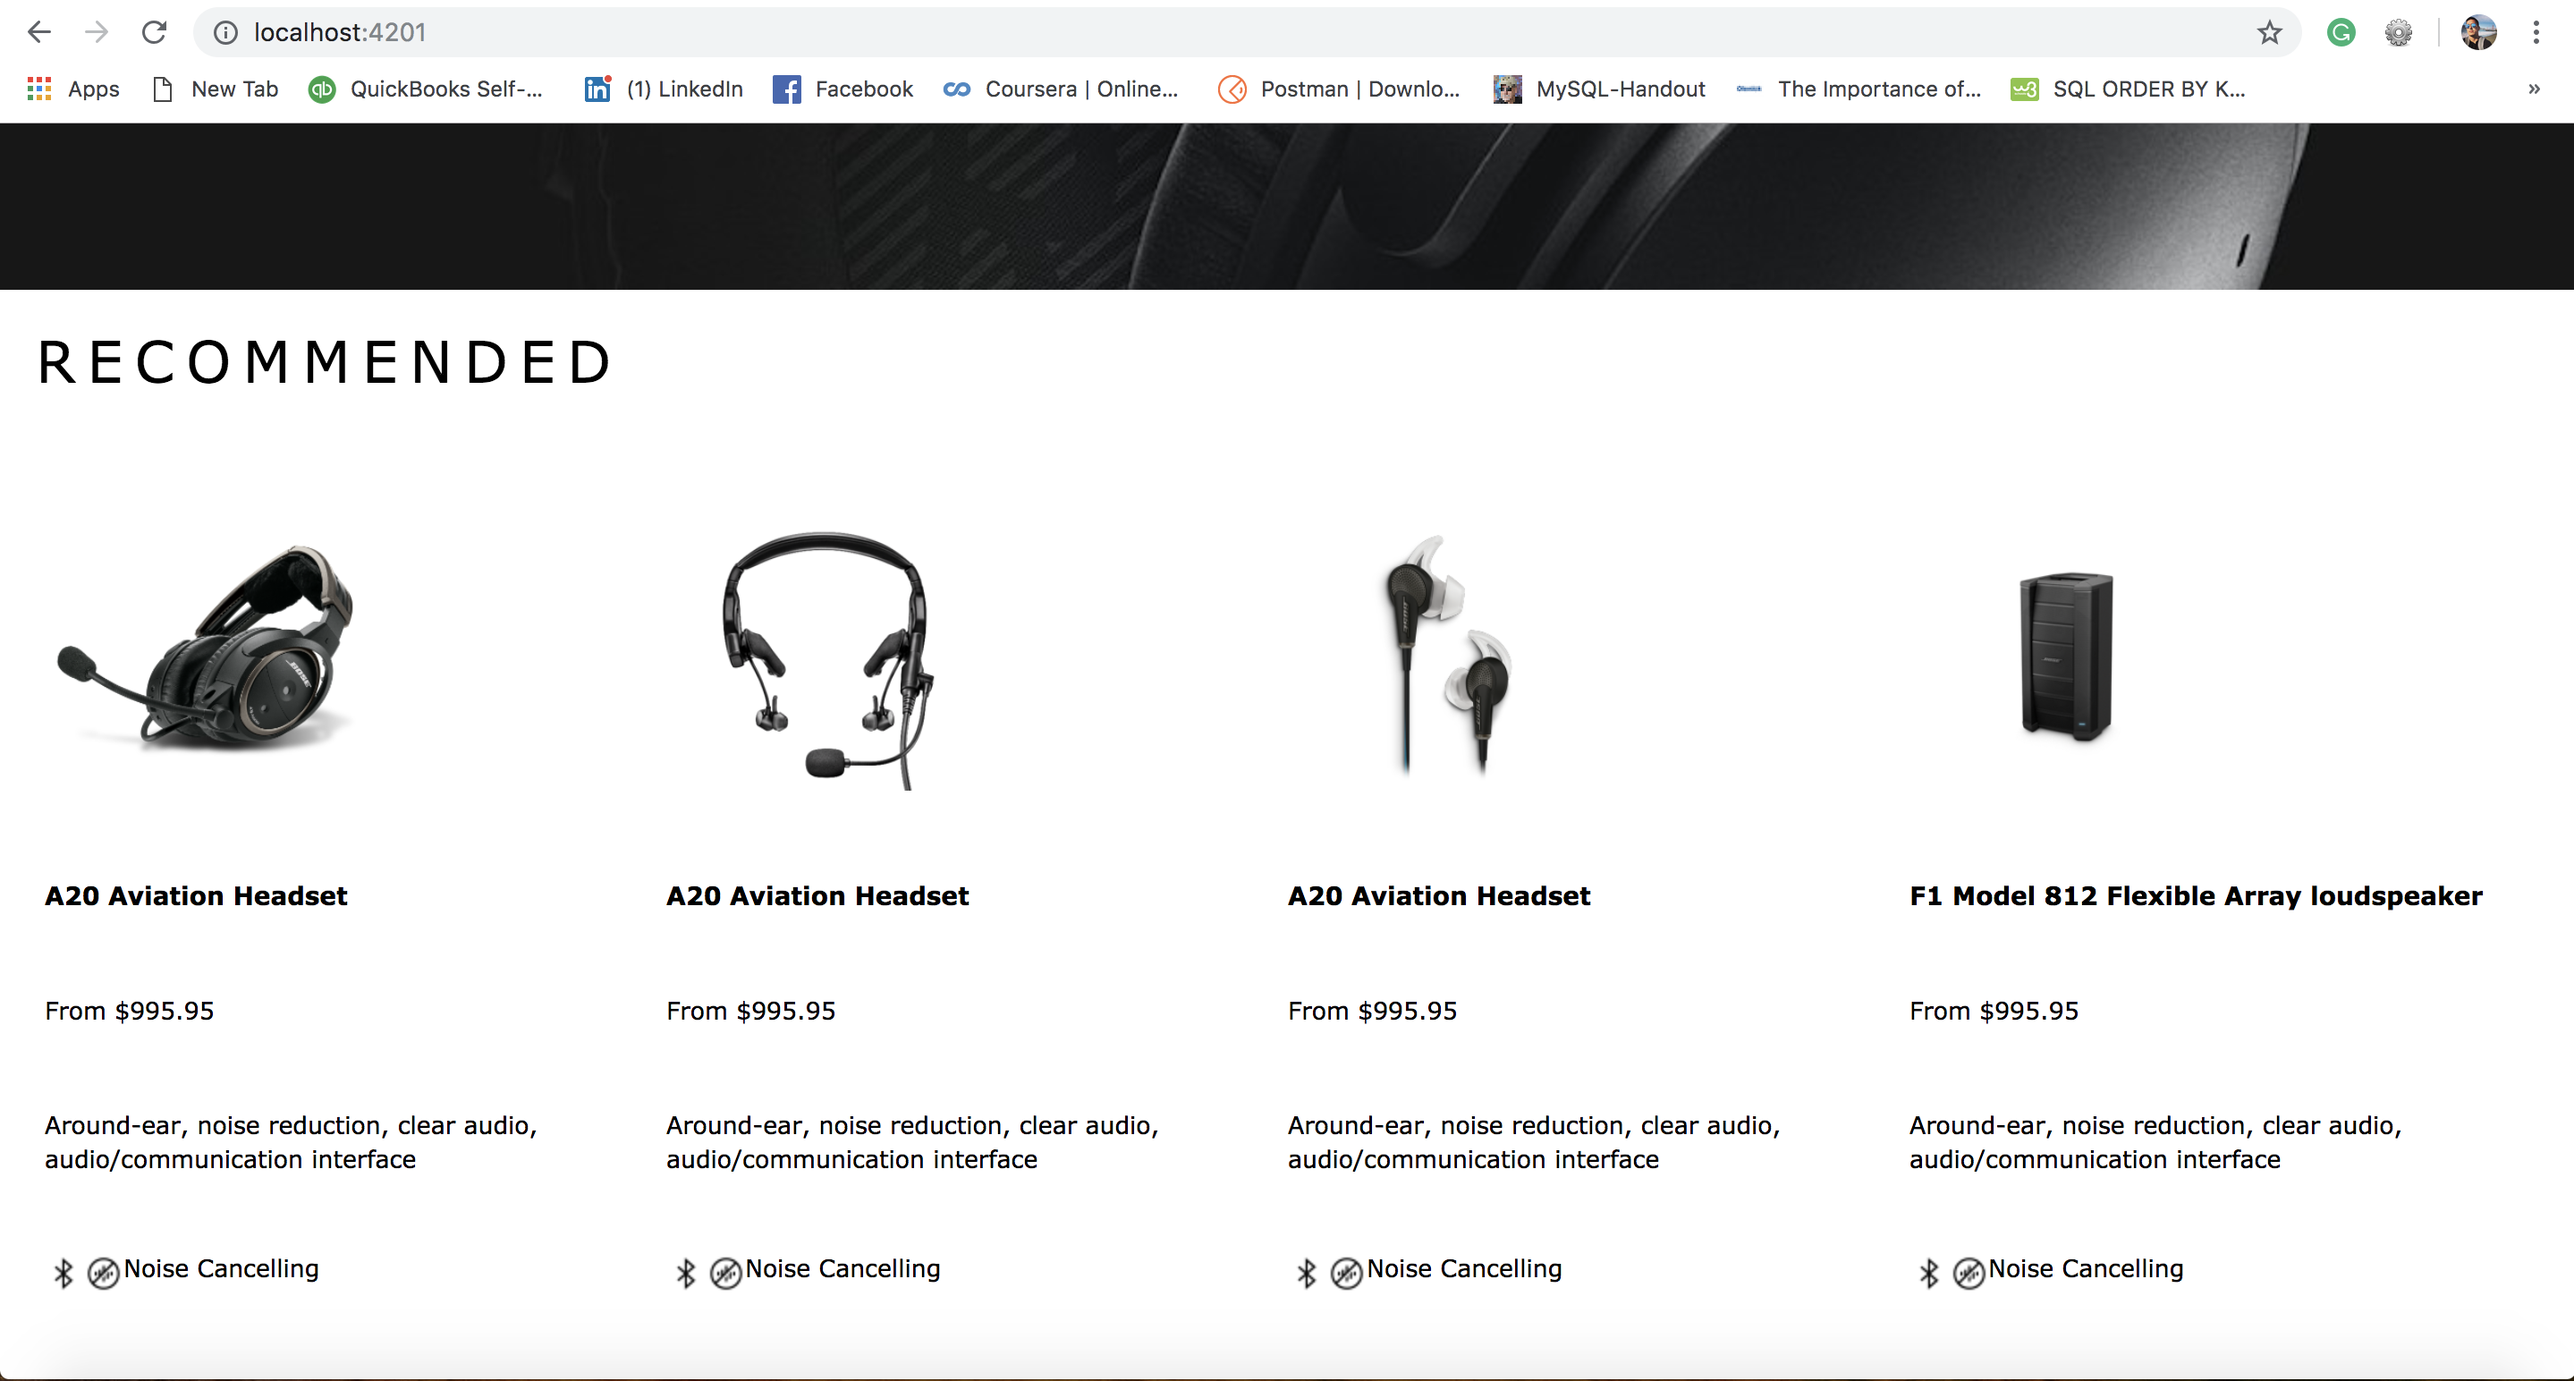
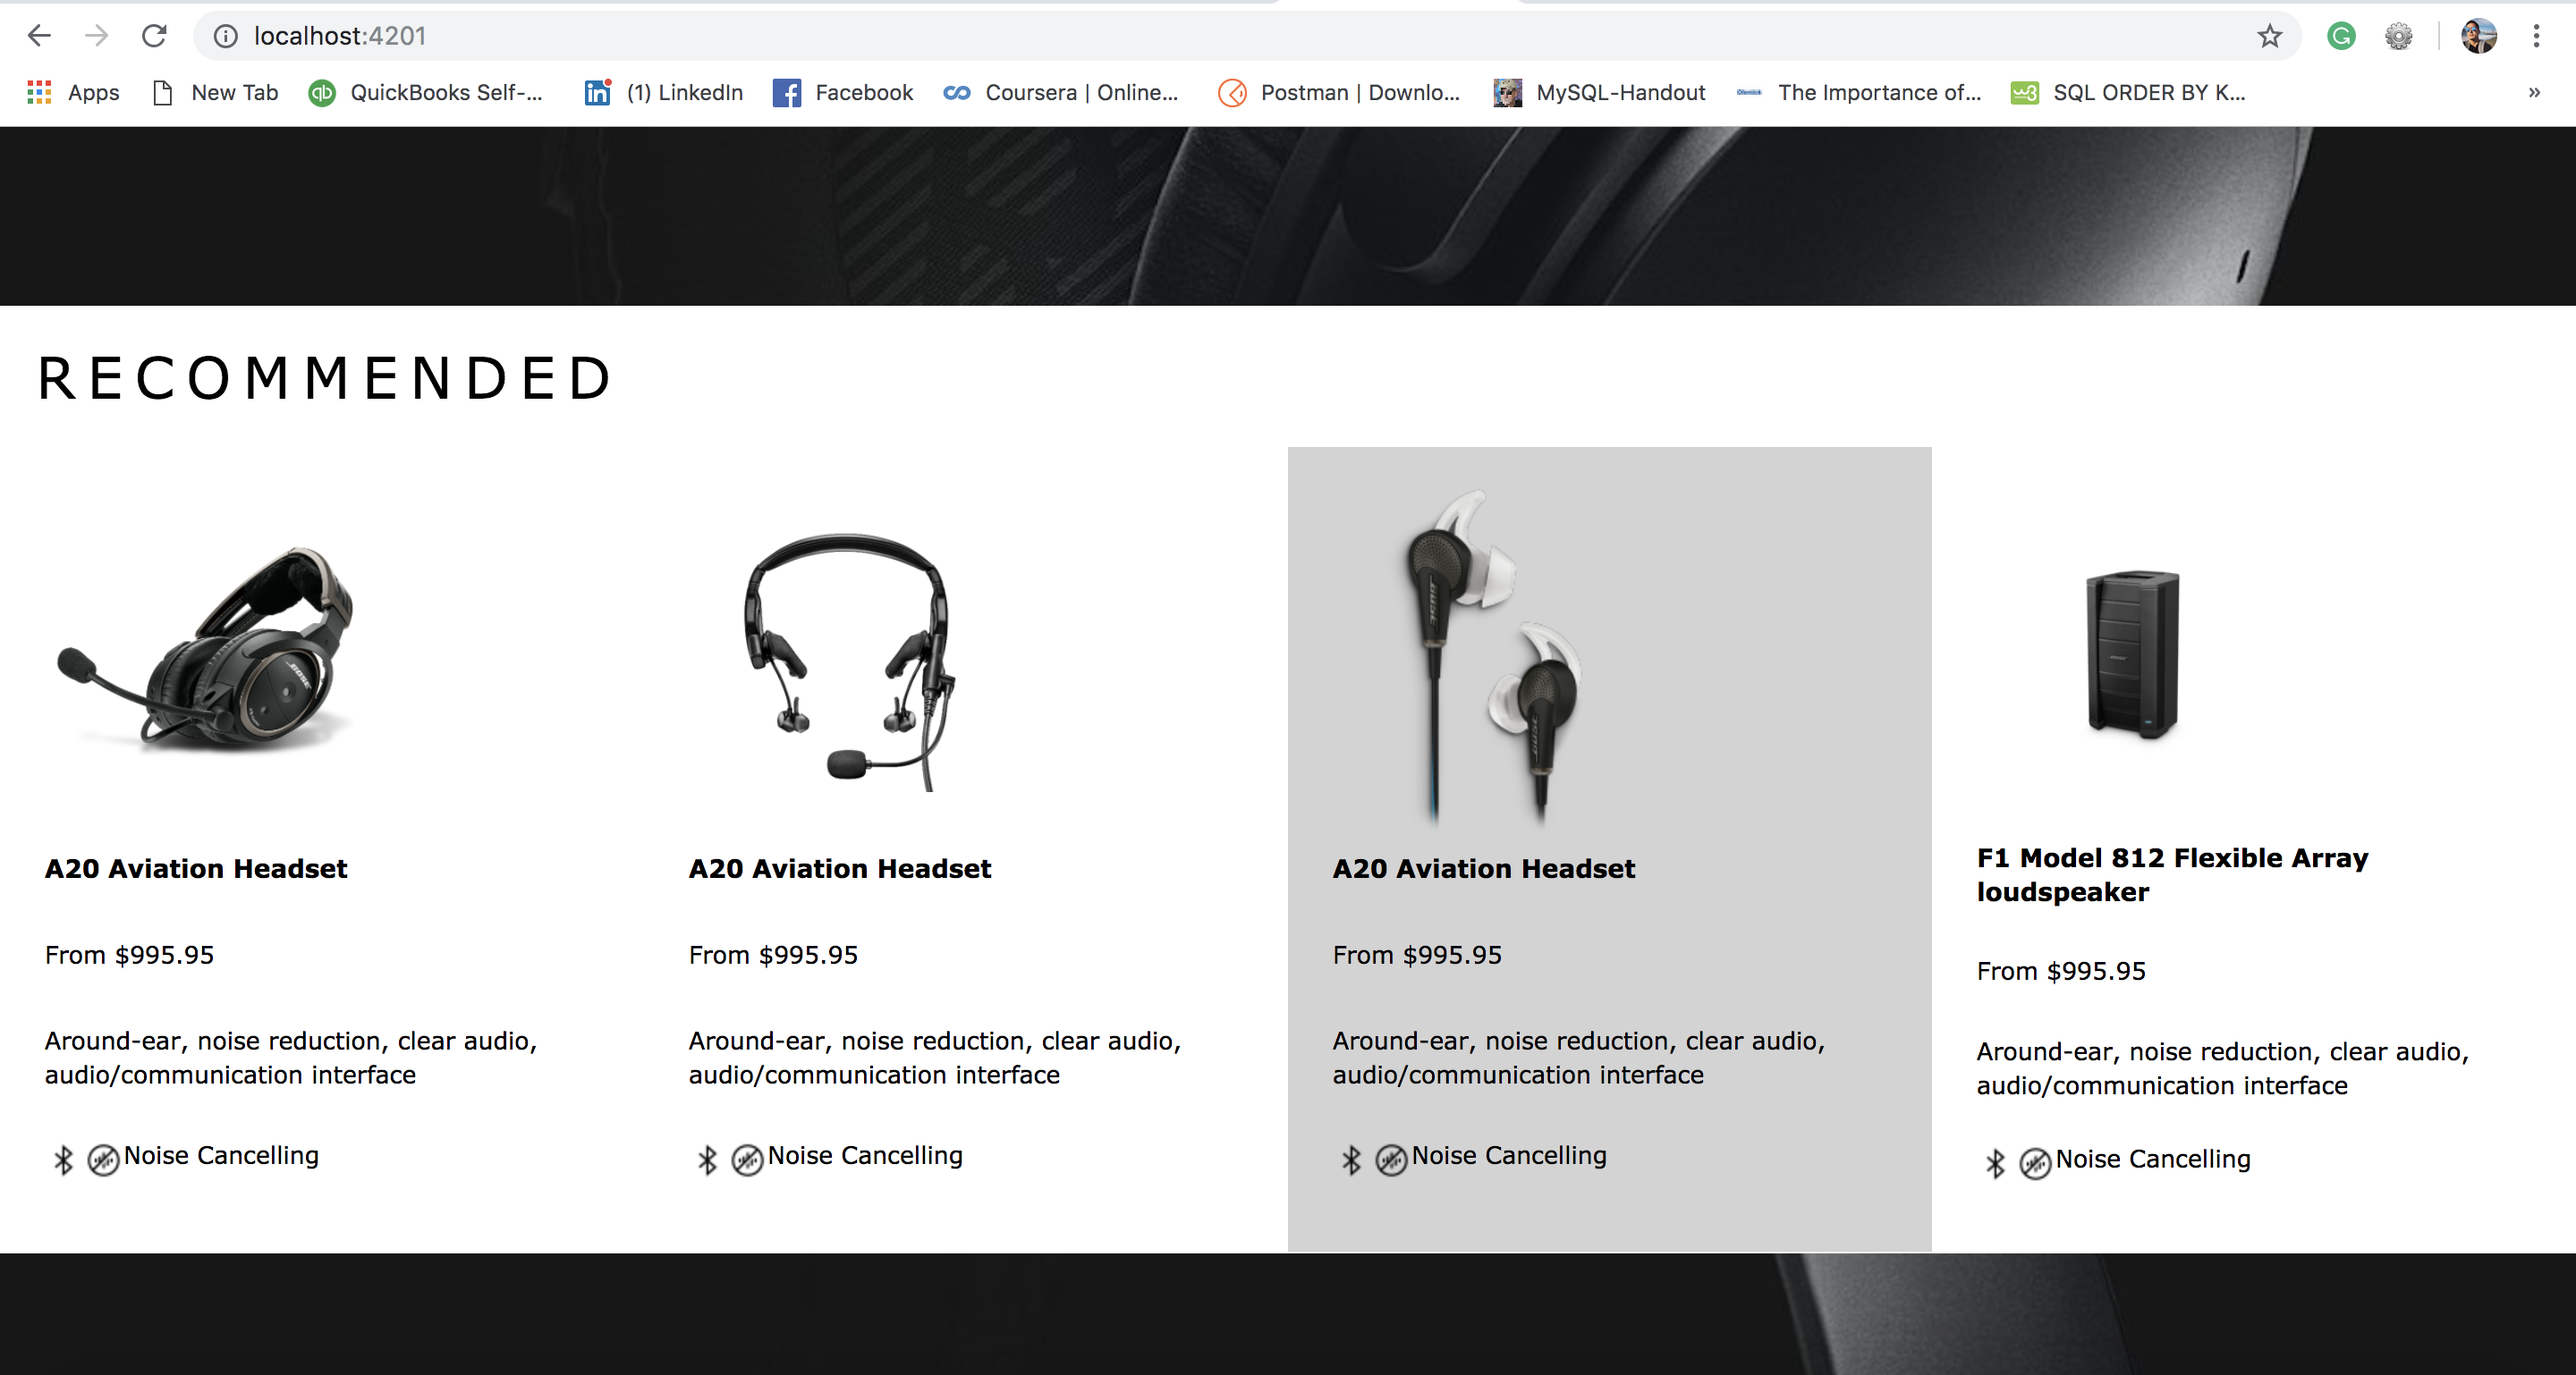
add new image to the README

diff --git a/src/app/recommnended/recommnended.component.css b/src/app/recommnended/recommnended.component.css
@@ -52,12 +52,6 @@ img:hover {
   font-size: 14px;
 }
 
-a:hover {
-  color: white;
-
-transform: scale(1.5);
-}
-
 ul {
   list-style-type: none;
 }
